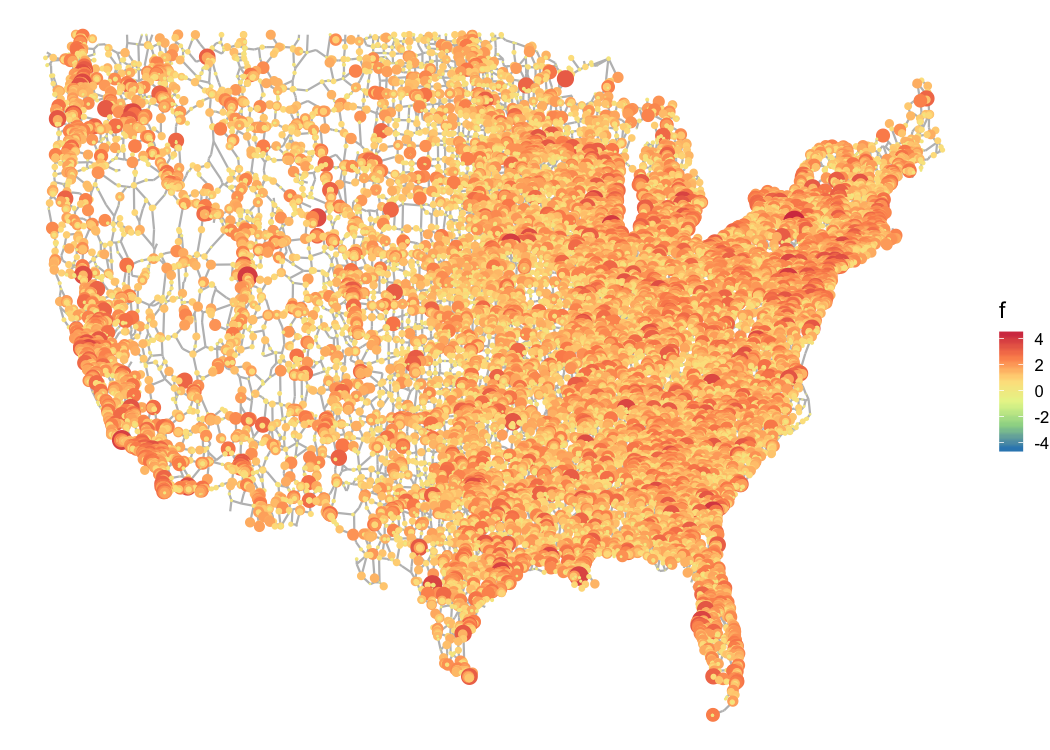
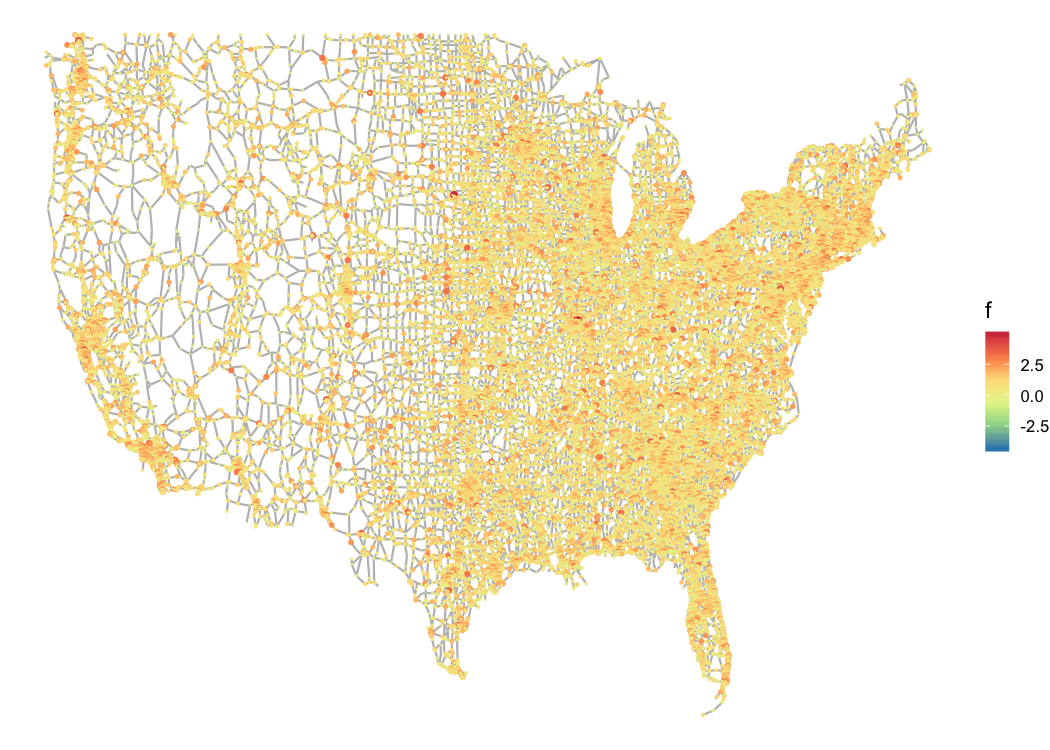
minor changes README

diff --git a/README.md b/README.md
@@ -86,7 +86,7 @@ attributes(`usroads-48`)
 
 `usroads-48` is composed of the matrix `sA`, coordinates `xy` (if
 present) and `info` about the matrix (stored in a temporary folder as a
-plain text file) that can be display via `file.show(`usroads-48`$info)`
+plain text file) that can be display via `file.show(usroads-48$info)`
 for example or in the console:
 
 ``` r
@@ -107,12 +107,12 @@ cat(readLines(`usroads-48`$info), sep = "\n")
 ```
 
 It is also possible to plot a (planar) graph and plot signals defined on
-top of the graph.
+top of the graph. For example :
 
 ``` r
 f <- rnorm(nrow(`usroads-48`$xy))
 plot_graph(`usroads-48`, size = 0.05)
-plot_signal(`usroads-48`, f, size = f)
+plot_signal(`usroads-48`, f, size = f/4)
 ```
 
 <img src="README_files/figure-markdown_github/unnamed-chunk-10-1.png" width="50%" style="display: block; margin: auto;" /><img src="README_files/figure-markdown_github/unnamed-chunk-10-2.png" width="50%" style="display: block; margin: auto;" />
